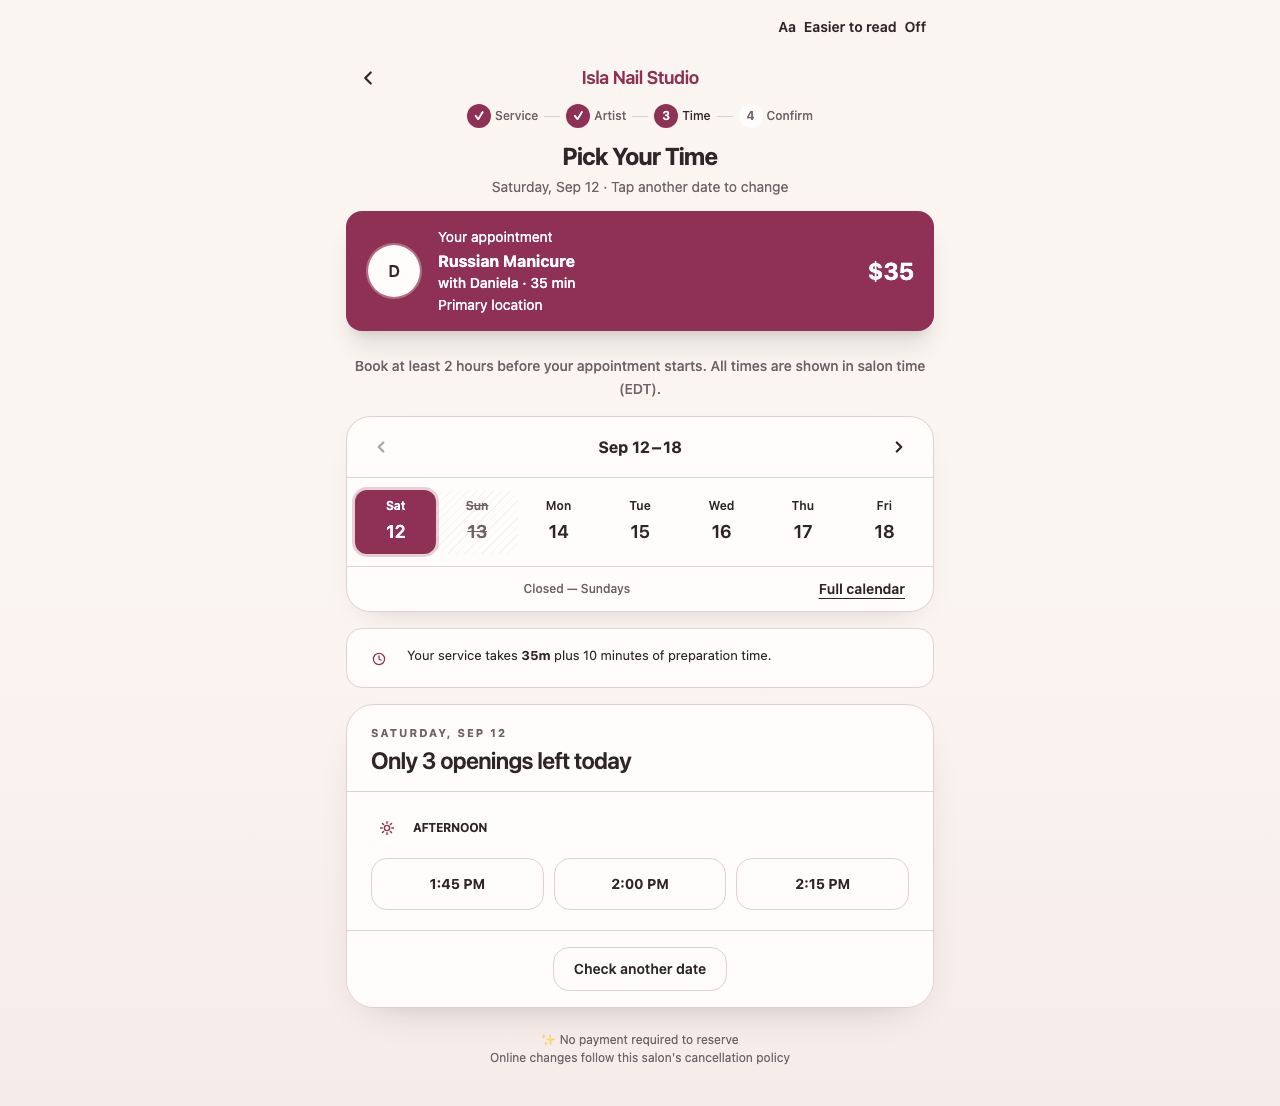
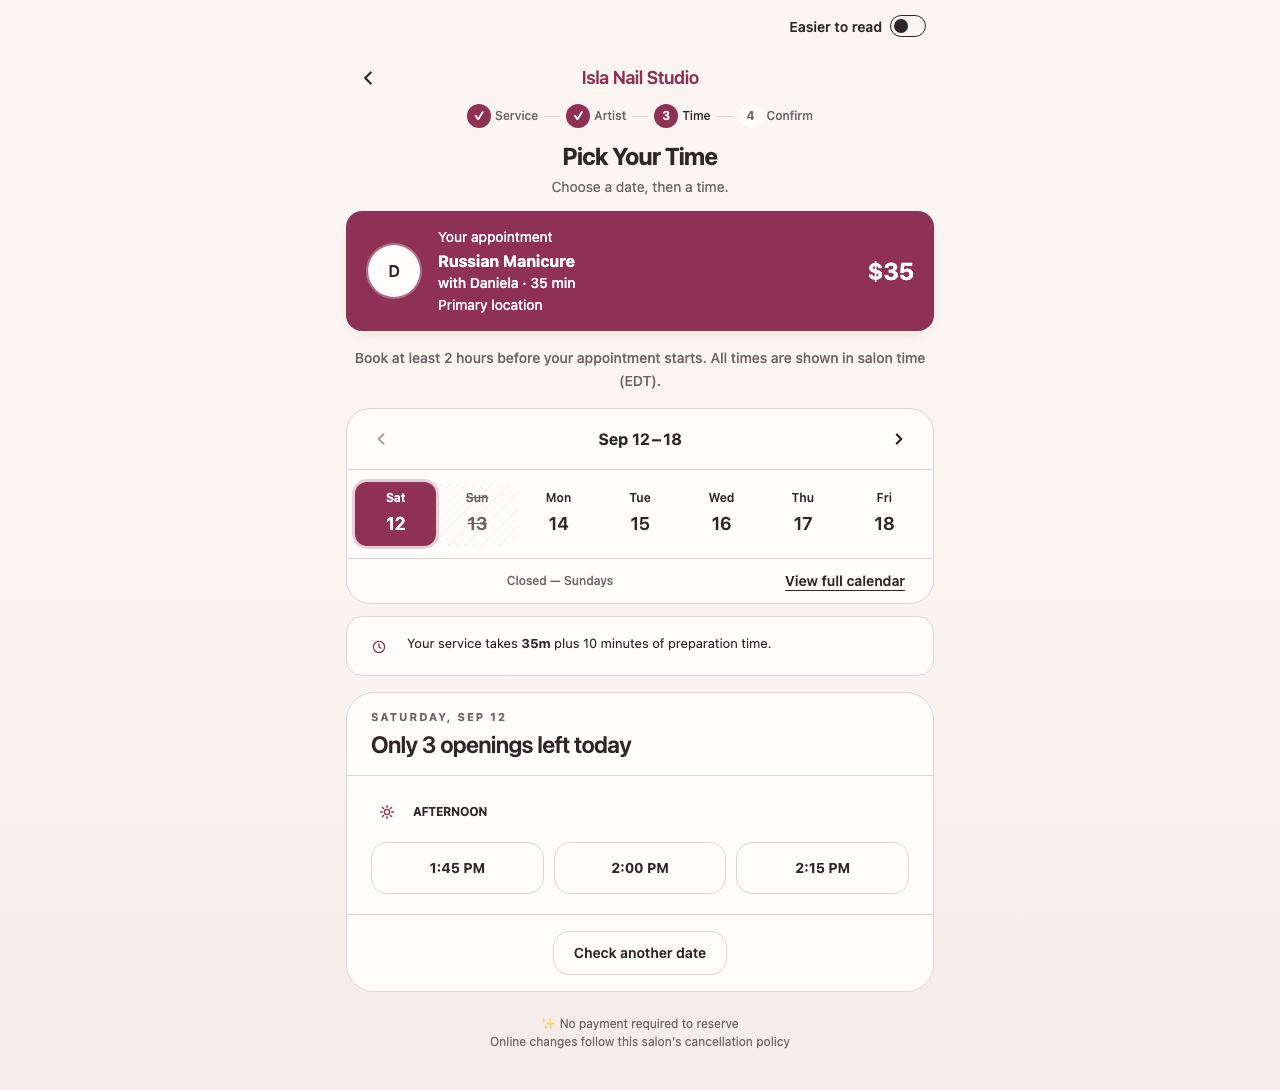
fix(booking): polish calendar copy and reading controls

diff --git a/src/app/(unauth)/book/time/BookTimeClient.tsx b/src/app/(unauth)/book/time/BookTimeClient.tsx
@@ -826,8 +826,9 @@ export function BookTimeClient({
   const afternoonSlots = regularSlots.filter(s => s.period === 'afternoon');
   const eveningSlots = regularSlots.filter(s => s.period === 'evening');
   const availableTimeCount = bookableTimeSlots.length;
+  const isSelectedDateToday = selectedDate?.toDateString() === today.toDateString();
   const availabilityCountCopy = availableTimeCount <= 3
-    ? `Only ${availableTimeCount} ${availableTimeCount === 1 ? 'opening' : 'openings'} left today`
+    ? `Only ${availableTimeCount} ${availableTimeCount === 1 ? 'opening' : 'openings'} ${isSelectedDateToday ? 'left today' : 'available'}`
     : `${availableTimeCount} times available`;
   const timeGridClassName = availableTimeCount === 1
     ? 'grid grid-cols-1 gap-2.5'
@@ -1033,9 +1034,7 @@ export function BookTimeClient({
           salonName={salonName}
           mounted={mounted}
           title="Pick Your Time"
-          description={selectedDate
-            ? `${formatSelectedDate(selectedDate)} · Tap another date to change`
-            : 'Select a day that works for you'}
+          description={calendarCopy.dateHelp}
           bookingFlow={bookingFlow}
           currentStep="time"
           isFirstStep={isFirstStep}
@@ -1068,7 +1067,7 @@ export function BookTimeClient({
           tabIndex={-1}
           role="group"
           aria-label="Choose an appointment date"
-          className="mb-4 overflow-hidden rounded-3xl bg-white shadow-[0_12px_32px_-22px_rgba(63,43,36,0.34)] max-[339px]:-mx-3"
+          className="mb-3 overflow-hidden rounded-3xl bg-white max-[339px]:-mx-3"
           style={{
             borderWidth: '1px',
             borderStyle: 'solid',
@@ -1244,7 +1243,7 @@ export function BookTimeClient({
           <section
             aria-labelledby="no-openings-title"
             data-public-surface="timeSelectionControls"
-            className="mb-4 rounded-[1.75rem] border bg-white px-5 py-6 text-center shadow-[0_16px_40px_-28px_rgba(63,43,36,0.42)]"
+            className="mb-4 rounded-[1.75rem] border bg-white px-5 py-6 text-center"
             style={{ borderColor: themeVars.cardBorder }}
           >
             <div
@@ -1339,10 +1338,10 @@ export function BookTimeClient({
               <section
                 aria-labelledby="availability-heading"
                 data-public-surface="timeSelectionControls"
-                className="overflow-hidden rounded-[1.75rem] border bg-white shadow-[0_16px_40px_-28px_rgba(63,43,36,0.42)]"
+                className="overflow-hidden rounded-[1.75rem] border bg-white"
                 style={{ borderColor: themeVars.cardBorder }}
               >
-                <div className="px-5 pb-4 pt-5 sm:px-6">
+                <div className="px-5 py-4 sm:px-6">
                   <p className="text-[11px] font-bold uppercase tracking-[0.18em]" style={{ color: themeVars.secondaryText }}>
                     {formatSelectedDate(selectedDate)}
                   </p>
@@ -1502,7 +1501,7 @@ export function BookTimeClient({
                 >
                   {availableTimeCount === 1 && (
                     <p className="mb-3 text-sm font-medium" style={{ color: themeVars.secondaryText }}>
-                      No other times available today.
+                      {isSelectedDateToday ? 'No other times available today.' : 'No other times available on this date.'}
                     </p>
                   )}
                   <button

diff --git a/tests/browser/booking-theme/readability.spec.ts b/tests/browser/booking-theme/readability.spec.ts
@@ -20,7 +20,9 @@ test('week navigation and full calendar preserve date selection and keyboard acc
 
   await expect(page.getByTestId('calendar-day-2026-09-19')).toHaveAttribute('aria-pressed', 'true');
 
-  await page.getByRole('button', { name: 'Full calendar' }).click();
+  await expect(page.getByText('Only 1 opening available')).toBeVisible();
+
+  await page.getByRole('button', { name: 'View full calendar' }).click();
   await page.getByRole('button', { name: 'Next month' }).click();
   await page.getByTestId('calendar-day-2026-10-21').click();
   await page.getByRole('button', { name: 'Show one week' }).click();
@@ -93,7 +95,7 @@ for (const width of [320, 375]) {
     await expect.poll(() => page.evaluate(() => document.documentElement.scrollWidth <= innerWidth)).toBe(true);
     await expect(prep).toBeVisible();
 
-    await page.getByRole('button', { name: 'Full calendar' }).click();
+    await page.getByRole('button', { name: 'View full calendar' }).click();
 
     await expect.poll(() => page.evaluate(() => document.documentElement.scrollWidth <= innerWidth)).toBe(true);
     await expect(page.getByTestId('calendar-day-2026-09-12')).toHaveAttribute('aria-pressed', 'true');

diff --git a/src/app/(unauth)/book/time/BookTimeClient.test.tsx b/src/app/(unauth)/book/time/BookTimeClient.test.tsx
@@ -137,12 +137,15 @@ describe('BookTimeClient', () => {
       await waitFor(() => expect(fetchMock).toHaveBeenCalledWith(expect.stringContaining('date=2026-03-16'), { cache: 'no-store' }));
 
       expect(screen.getByTestId('calendar-day-2026-03-16')).toHaveAttribute('aria-pressed', 'true');
+      expect(await screen.findByText('Only 1 opening available')).toBeInTheDocument();
+      expect(screen.getByText('No other times available on this date.')).toBeInTheDocument();
+      expect(screen.queryByText('Only 1 opening left today')).not.toBeInTheDocument();
     });
 
     it('offers a full month without past appointment choices and retains a far-date selection', async () => {
       renderCalendar();
       await screen.findByRole('button', { name: '1:45 PM' });
-      fireEvent.click(screen.getByRole('button', { name: 'Full calendar' }));
+      fireEvent.click(screen.getByRole('button', { name: 'View full calendar' }));
 
       expect(screen.getByRole('button', { name: 'Show one week' })).toHaveAttribute('aria-expanded', 'true');
       expect(screen.getByRole('button', { name: 'Previous month' })).toBeDisabled();

diff --git a/src/styles/global.css b/src/styles/global.css
@@ -465,9 +465,28 @@
   outline-offset: 2px;
 }
 
-.booking-reading-toolbar button[aria-pressed='true'] {
-  text-decoration: underline;
-  text-underline-offset: 4px;
+.booking-reading-switch {
+  display: inline-flex;
+  align-items: center;
+  width: 36px;
+  height: 22px;
+  padding: 3px;
+  border: 1px solid currentColor;
+  border-radius: 999px;
+}
+
+.booking-reading-switch > span {
+  width: 14px;
+  height: 14px;
+  border-radius: 50%;
+  background: currentColor;
+}
+
+.booking-reading-toolbar button[aria-pressed='true'] .booking-reading-switch {
+  background: #202020;
+  color: white;
+  border-color: #202020;
+  justify-content: flex-end;
 }
 
 [data-booking-readability] .booking-header-safe-top {

diff --git a/src/locales/bookingReading.ts b/src/locales/bookingReading.ts
@@ -9,7 +9,8 @@ const en = {
   nextWeek: 'Next week',
   previousMonth: 'Previous month',
   nextMonth: 'Next month',
-  fullCalendar: 'Full calendar',
+  fullCalendar: 'View full calendar',
+  dateHelp: 'Choose a date, then a time.',
   showWeek: 'Show one week',
   closed: 'closed',
 };
@@ -23,7 +24,8 @@ const fr: typeof en = {
   nextWeek: 'Semaine suivante',
   previousMonth: 'Mois précédent',
   nextMonth: 'Mois suivant',
-  fullCalendar: 'Calendrier complet',
+  fullCalendar: 'Voir le calendrier complet',
+  dateHelp: 'Choisissez une date, puis une heure.',
   showWeek: 'Afficher une semaine',
   closed: 'fermé',
 };

diff --git a/src/components/booking/BookingReadingPreferences.tsx b/src/components/booking/BookingReadingPreferences.tsx
@@ -46,9 +46,9 @@ export function BookingReadingPreferences({ children }: { children: ReactNode })
             }
           }}
         >
-          <span aria-hidden="true">Aa</span>
           {copy.easierToRead}
-          <span>{easyReading ? copy.readingOn : copy.readingOff}</span>
+          <span className="booking-reading-switch" aria-hidden="true"><span /></span>
+          <span className="sr-only">{easyReading ? copy.readingOn : copy.readingOff}</span>
         </button>
         <span id={helpId} className="sr-only">{copy.readingHelp}</span>
       </div>

diff --git a/src/components/booking/BookingSummaryCard.tsx b/src/components/booking/BookingSummaryCard.tsx
@@ -29,7 +29,7 @@ export function BookingSummaryCard({
     <Card
       data-public-surface="appointmentSummaryCard"
       data-testid="booking-summary-card"
-      className="mb-6 overflow-hidden border-0 shadow-xl"
+      className="mb-4 overflow-hidden border-0 shadow-[0_6px_18px_-12px_rgba(30,20,25,0.3)]"
       style={{
         containerType: 'inline-size',
         containerName: 'booking-summary',

diff --git a/docs/owner-review/booking-calendar-readability/README.md b/docs/owner-review/booking-calendar-readability/README.md
@@ -2,7 +2,7 @@
 
 ## Delivery status
 
-Local review candidate only. Not pushed, merged, published, or deployed.
+Release candidate. The owner has authorized publication; merge and production release remain gated on required CI and preview verification. The pull request records the final release outcome and production SHA.
 
 - Worktree: `/Users/me/nailsalon-worktrees/booking-calendar-readability-20260912`
 - Branch: `codex/booking-calendar-readability-20260912`
@@ -20,6 +20,7 @@ The preceding release shipped palette continuity through the booking screens, bu
 - At 375px the standard week fits in one row. At 320px, or with easier reading enabled, the seven days wrap to avoid tiny targets. Very large browser text reflows the summary and time choices rather than clipping them.
 - Closed weekdays remain disabled using the same existing salon-rule input. Browsing a week does not select a date or fetch an alternative availability result. Choosing a date still invokes the existing canonical request.
 - The appointment summary no longer truncates the service/location or fades its supporting text. Progress labels are larger and no longer faded.
+- Final polish: lighter appointment-summary shadow, flat bordered calendar/time cards, tighter availability spacing, “Choose a date, then a time.” guidance, and a clearer “View full calendar” action.
 
 ## Easier to read
 
@@ -29,9 +30,11 @@ The preference is stored under `luster:booking-reading:v1` in the visitor's brow
 
 Confirmation/receipt navigation stays in normal document flow with sticky positioning so it cannot cover the reading control.
 
-## Availability and preparation (unchanged)
+The reading control has a visible on/off switch treatment while retaining native button semantics, `aria-pressed`, an accessible state label, and a 44px target.
 
-- One opening: “Only 1 opening left today”. Two or three: “Only 2/3 openings left today”. Four or more: “N times available”. Counts continue to use the canonical bookable results, including the existing past-time/booked-slot protections.
+## Availability and preparation
+
+- For the current salon date: “Only 1 opening left today” or “Only 2/3 openings left today”. Future dates use “Only 1 opening available” or “Only 2/3 openings available”, never “today”. Four or more: “N times available”. Counts continue to use the canonical bookable results, including the existing past-time/booked-slot protections. The one-opening footer is likewise date-aware.
 - No openings: the existing intentional date-specific empty state and next-available/choose-another-date recovery remain. No unavailable-time grid is added.
 - Preparation copy still reports service duration plus the actual returned preparation buffer. No scheduling-engine explanation is reintroduced.
 - No changes to availability calculations, minimum notice, salon timezone, locations, technicians, durations, buffers, holds, payments, booking policies, capacity, or schema.
@@ -51,17 +54,17 @@ Real React booking screens and shared theme CSS, using isolated synthetic appoin
 ## Verification
 
 - Affected Vitest graph: **418 passed**, 19 suites (`npx vitest related --run` with the changed production TS/TSX entry points).
-- Appointment regression: **103 passed** (`npm run test:appointment-regression`).
-- Changed-file unit selection: **187 passed** (`npm run test`); new preference tests are additionally covered by the affected graph above.
-- Browser suite: **114 passed** across desktop Chromium, mobile Chromium, and mobile WebKit (`npx playwright test --config tests/browser/booking-theme/playwright.config.ts`), plus **3 passed** for the subsequently added easier-reading receipt test.
+- Initial implementation appointment regression: **103 passed** (`npm run test:appointment-regression`). The final-polish rerun under heavy host load passed 102/103 with the unchanged first reminder-reconciliation test hitting its existing five-second timeout; an isolated rerun reproduced the timeout. An initial parallel run also exposed a reminder-UI timing failure which passed on the serial rerun. No reminder code or test threshold was changed; required full CI remains a release gate.
+- Final-polish changed-file unit selection: **171 passed**, seven suites (`npm run test`); the initial implementation's wider graph is recorded above.
+- Final-polish browser suite: **117 passed** across desktop Chromium, mobile Chromium, and mobile WebKit (`npx playwright test --config tests/browser/booking-theme/playwright.config.ts`). Screenshots below were refreshed from this run.
 - `npm run check-types`: passed, using CI-only placeholder credentials rather than real provider secrets.
-- `npm run lint`: passed, no errors; 11 existing confirmation/fixture warnings. Explicit ESLint on the new files also passed.
-- `npm run security:check-secrets` and `git diff --check`: passed. Final screenshot retakes: 3 passed after the desktop toolbar background polish.
+- `npm run lint`: passed, no errors; three existing confirmation fast-refresh warnings. Explicit ESLint on the final-polish files also passed.
+- `npm run security:check-secrets` and `git diff --check`: passed.
 - No booking-engine tests were weakened.
 
 Browser coverage includes all eight onboarding palettes, available-only slots, zero/one/three/many openings, week/month navigation, year rollover (unit), selected-date semantics, keyboard focus, 44px date targets, 320px/375px overflow, 200% root text sizing, long preparation copy, saved preferences across screens, and computed 4.5:1 contrast for key time-screen text/control pairs in both modes.
 
-This is targeted accessibility verification, not a claim of complete WCAG conformance. Full repository CI, a deployed preview, a real-device assistive-technology audit, production build, and live production booking have not been run for this candidate. No production credentials or services were needed.
+This is targeted accessibility verification, not a claim of complete WCAG conformance. A real-device assistive-technology audit and a real appointment submission are not part of this release verification. Automated booking submissions use isolated fixtures only. Full repository CI/builds, preview results, and read-only production verification are recorded on the pull request before declaring the release live.
 
 Additional evidence: [320px with 200% text sizing](mobile-320-text-200.png). The React/Next.js guidance informed the client-only preference restoration, shared server/client boundary, and reflow checks; browser verification was performed before handoff.
 
